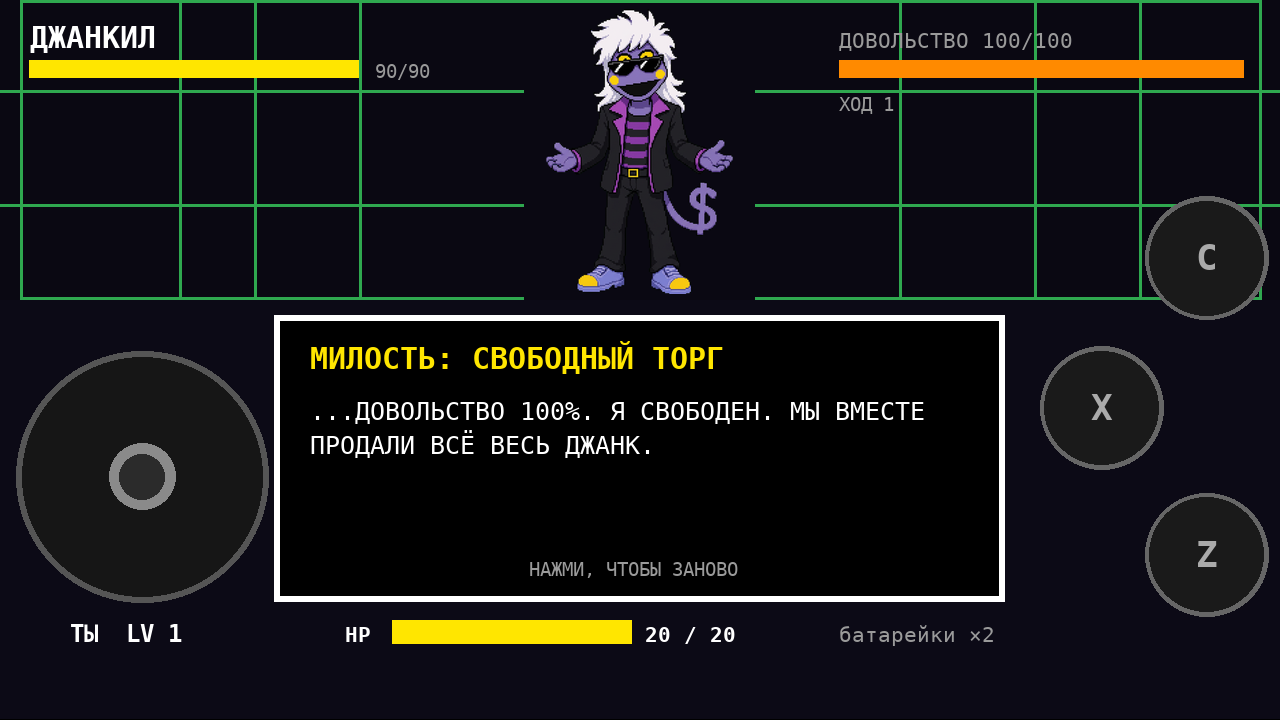
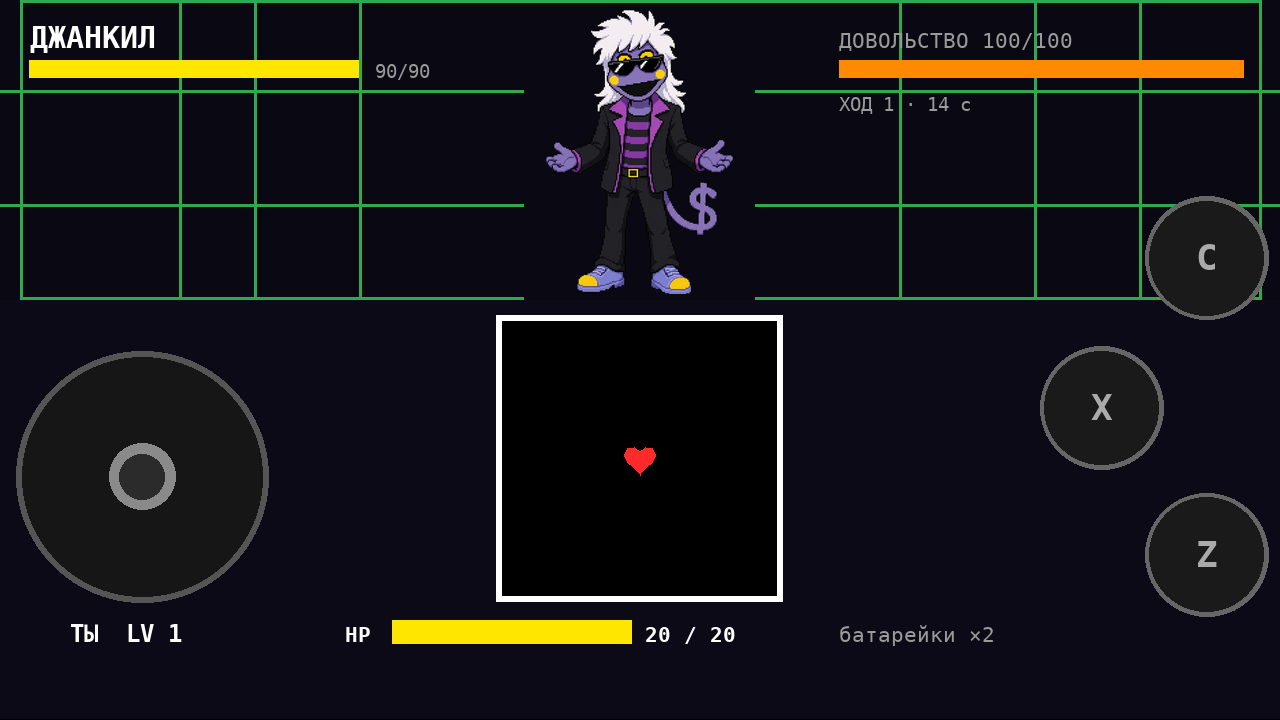
Джанкил: ТЁМНЫЙ БАК — только финальный залп перед геноцидом и милостью; из обычного пула убран; тесты 104/62; APK

Changed region(s): [[0.1875, 0.4278, 0.7812, 0.8556], [0.7812, 0.4583, 0.8125, 0.825], [0.7188, 0.1222, 0.75, 0.1528]]

diff --git a/junkil-battle/test/com/example/junkil/LogicCheck.java b/junkil-battle/test/com/example/junkil/LogicCheck.java
@@ -115,15 +115,22 @@ public final class LogicCheck {
         eq("после отказа фаза MENU", BattleLogic.Phase.MENU, b.phase);
         b.satisfy = 100;
         eq("МИЛОСТЬ при 100% проходит", true, b.mercy());
-        eq("фаза SPARED", BattleLogic.Phase.SPARED, b.phase);
+        eq("перед милостью финал: фаза ARENA", BattleLogic.Phase.ARENA, b.phase);
+        check("финальный залп «Тёмного бака» идёт", b.isFinale());
+        check("бой ещё не окончен до залпа", !b.isOver());
+        b.endArena();
+        eq("после залпа фаза SPARED", BattleLogic.Phase.SPARED, b.phase);
         check("конец боя SPARED", b.isOver());
 
         b = new BattleLogic(new Random(8));
         b.junkHp = 4;
         b.chooseFight();
         b.fight(1.0);
-        eq("ХП 0 — Джанкил побеждён", null, b.startArena());
-        eq("фаза WON", BattleLogic.Phase.WON, b.phase);
+        eq("ХП 0 — сначала финал (обычный пул не нужен)", BattleLogic.Pattern.NORMAL, b.startArena());
+        eq("геноцид: фаза ARENA", BattleLogic.Phase.ARENA, b.phase);
+        check("геноцид: идёт финальный залп", b.isFinale());
+        b.endArena();
+        eq("после залпа фаза WON", BattleLogic.Phase.WON, b.phase);
 
         b = new BattleLogic(new Random(9));
         b.chooseFight();
@@ -199,14 +206,14 @@ public final class LogicCheck {
 
     /** «Тёмный бак»: залпы, подсказки, крышка и свет. */
     static void darkBin() {
-        // входит в обычный пул атак (за 60 ходов встречается хотя бы раз)
+        // в обычных ходах не выпадает: только финальный залп (геноцид или милость)
         boolean seen = false;
         for (long seed = 1; seed <= 60 && !seen; seed++) {
             ArenaSim s = new ArenaSim(new Random(seed), BattleLogic.Pattern.NORMAL, "SOS");
             run(s);
             seen = s.attackLog.contains(ArenaSim.Attack.DARK);
         }
-        check("ТЁМНЫЙ БАК есть в пуле атак", seen);
+        check("ТЁМНЫЙ БАК не выпадает в обычных ходах", !seen);
 
         // два залпа по три: шесть подсказок и шесть выстрелов, ход заканчивается по времени
         ArenaSim d = new ArenaSim(new Random(5), BattleLogic.Pattern.NORMAL, "SOS",

diff --git a/junkil-battle/src/com/example/junkil/BattleLogic.java b/junkil-battle/src/com/example/junkil/BattleLogic.java
@@ -171,7 +171,9 @@ final class BattleLogic {
     boolean mercy() {
         requireMenu();
         if (satisfy >= SATISFY_MAX) {
-            phase = Phase.SPARED;
+            // милость: сначала финальный залп «Тёмного бака», потом отпускает
+            finaleOutcome = Phase.SPARED;
+            phase = Phase.ARENA;
             line = Phrases.SPARED;
             return true;
         }
@@ -182,15 +184,23 @@ final class BattleLogic {
     /** Конец текста Джанклима: либо победа (HP 0), либо арена. Возвращает тип атаки или null. */
     Pattern startArena() {
         if (phase != Phase.JUNK_TALK) throw new IllegalStateException("не фаза JUNK_TALK: " + phase);
-        if (junkHp <= 0) {
-            phase = Phase.WON;
-            line = Phrases.WON;
-            return null;
-        }
         phase = Phase.ARENA;
+        if (junkHp <= 0) {
+            // геноцид: сначала финальный залп «Тёмного бака», потом победа
+            finaleOutcome = Phase.WON;
+            return Pattern.NORMAL;
+        }
         Pattern p = nextPattern;
         nextPattern = Pattern.NORMAL;
         return p;
+    }
+
+    /** Исход, который наступит после финального залпа «Тёмного бака» (WON или SPARED), иначе null. */
+    private Phase finaleOutcome;
+
+    /** Идёт финальный залп перед концовкой. */
+    boolean isFinale() {
+        return finaleOutcome != null;
     }
 
     /** Попадание на арене: урон игроку применяется сразу, в момент касания. */
@@ -205,6 +215,13 @@ final class BattleLogic {
         if (playerHp <= 0) {
             phase = Phase.LOST;
             line = Phrases.LOST;
+            finaleOutcome = null;
+            return;
+        }
+        if (finaleOutcome != null) {
+            phase = finaleOutcome;
+            finaleOutcome = null;
+            line = phase == Phase.WON ? Phrases.WON : Phrases.SPARED;
             return;
         }
         turn++;

diff --git a/junkil-battle/src/com/example/junkil/BattleView.java b/junkil-battle/src/com/example/junkil/BattleView.java
@@ -698,8 +698,13 @@ final class BattleView extends View {
                 setSub(SUB_NONE);
                 break;
             case "MERCY":
-                if (logic.mercy()) sounds.play("mercy");
-                else sounds.play("back");
+                if (logic.mercy()) {
+                    sounds.play("mercy");
+                    setSub(SUB_NONE);
+                    startArenaSim(BattleLogic.Pattern.NORMAL);
+                } else {
+                    sounds.play("back");
+                }
                 break;
             case "LOOK":
                 logic.chooseAct(BattleLogic.Act.LOOK);
@@ -744,11 +749,13 @@ final class BattleView extends View {
 
     private void continueTalk() {
         BattleLogic.Pattern p = logic.startArena();
-        if (p == null) {                      // победа: экран конца
-            sounds.play("win");
-            return;
-        }
-        sim = new ArenaSim(rng, p, logic.morseWord);
+        startArenaSim(p);
+    }
+
+    /** Арена хода; в финале (геноцид или милость) идёт только «Тёмный бак». */
+    private void startArenaSim(BattleLogic.Pattern p) {
+        ArenaSim.Attack[] forced = logic.isFinale() ? new ArenaSim.Attack[] {ArenaSim.Attack.DARK} : null;
+        sim = new ArenaSim(rng, p, logic.morseWord, forced);
         lastAttackStarts = 0;
     }
 
@@ -764,6 +771,7 @@ final class BattleView extends View {
         joyX = 0f;
         joyY = 0f;
         if (logic.phase == BattleLogic.Phase.LOST) sounds.play("lose");
+        if (logic.phase == BattleLogic.Phase.WON) sounds.play("win");
     }
 
     private void restart() {

diff --git a/junkil-battle/test/harness/com/example/junkil/UiCheck.java b/junkil-battle/test/harness/com/example/junkil/UiCheck.java
@@ -221,7 +221,9 @@ public final class UiCheck {
         w.advance(0.5555f);
         w.tapLogical(400, 384);
         w.tapLogical(400, 400);
-        eq("ХП Джанкила 0 — победа", BattleLogic.Phase.WON, w.logic().phase);
+        eq("ХП Джанкила 0 — финал «Тёмный бак»", BattleLogic.Phase.ARENA, w.logic().phase);
+        w.advance(15f);   // залп проходит, потом победа
+        eq("ХП Джанкила 0 — победа после залпа", BattleLogic.Phase.WON, w.logic().phase);
         check("победа — конец", w.logic().isOver());
         w.tapLogical(400, 300);
         eq("тап после конца — новая игра", BattleLogic.Phase.MENU, w.logic().phase);
@@ -230,7 +232,9 @@ public final class UiCheck {
         Env s = new Env(29);
         s.logic().satisfy = 100;
         s.tapButton("MERCY");
-        eq("МИЛОСТЬ при 100 — SPARED", BattleLogic.Phase.SPARED, s.logic().phase);
+        eq("МИЛОСТЬ при 100 — финал «Тёмный бак»", BattleLogic.Phase.ARENA, s.logic().phase);
+        s.advance(15f);
+        eq("МИЛОСТЬ при 100 — SPARED после залпа", BattleLogic.Phase.SPARED, s.logic().phase);
         eq("мирный конец — спрайт обычный", BattleLogic.Mood.NORMAL, s.logic().mood());
 
         Env l = new Env(30);

diff --git a/junkil-battle/src/com/example/junkil/ArenaSim.java b/junkil-battle/src/com/example/junkil/ArenaSim.java
@@ -178,7 +178,8 @@ final class ArenaSim {
             order.addAll(java.util.Arrays.asList(forced));
         } else {
             order.add(Attack.MORSE);
-            List<Attack> rest = new ArrayList<>(List.of(Attack.AIM, Attack.WALL, Attack.RING, Attack.BOUNCE, Attack.DARK));
+            // ТЁМНЫЙ БАК в обычный пул не входит: только финальный залп (геноцид или милость)
+            List<Attack> rest = new ArrayList<>(List.of(Attack.AIM, Attack.WALL, Attack.RING, Attack.BOUNCE));
             Collections.shuffle(rest, rng);
             order.add(rest.get(0));
             order.add(rest.get(1));

diff --git a/junkil-battle/README.md b/junkil-battle/README.md
@@ -15,7 +15,7 @@
 - **АРЕНА** (квадратная во время атаки, прямоугольная в остальное время):
   - Ход начинается с **ЧАСТОТЫ** (Морзе из выбранного слова): каждая точка — колючка, летящая в сердце; тире — стена с проёмом под сердце.
   - Затем две случайные атаки из: **ПРИЦЕЛ** (фигуры летят в сердце), **СТЕНА** (проём под сердце), **КАРУСЕЛЬ** (кольцо с проходом к сердцу), **ОТСКОК** (монеты с отскоком от стенок арены).
-  - **ТЁМНЫЙ БАК** (фирменная атака): крышка бака сходится, арена темнеет, видно только круг света вокруг сердца. Перед каждым из двух залпов по три выстрела жёлтый пунктир показывает, куда полетит фигура; через 1.5 с выстрел летит по нему. Двигайтесь с линии.
+  - **ТЁМНЫЙ БАК** (фирменная атака, только финал): перед геноцидом (ХП Джанкила 0) и перед милостью (Довольство 100) Джанкил выпускает этот залп. Крышка бака сходится, арена темнеет, видно только круг света вокруг сердца. Перед каждым из двух залпов по три выстрела жёлтый пунктир показывает, куда полетит фигура; через 1.5 с выстрел летит по нему. Двигайтесь с линии. В обычных ходах не выпадает.
   - Белые пули — бесшовные текстуры атак (10 вариантов), с неправильными контурами, не прямоугольники.
   - Каждое попадание — −2 ХП игроку (20). ХП 0 — поражение.
 - **СИГНАЛ Морзе** в меню: верно — Довольство +25, следующая атака слабее; неверно — Довольство −10, атака сильнее.
@@ -32,8 +32,8 @@
 
 ## Команды
 ```
-scripts/test.sh          # логика (99 проверок)
-scripts/ui-test.sh       # интерфейс через касания и джойстик (60 проверок)
+scripts/test.sh          # логика (104 проверки)
+scripts/ui-test.sh       # интерфейс через касания и джойстик (62 проверки)
 scripts/screenshots.sh   # снимки docs/screens/
 tools/build-app.sh junkil-battle Junkil-v2.0.apk   # из корня репозитория
 ```
